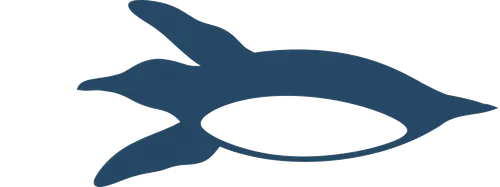
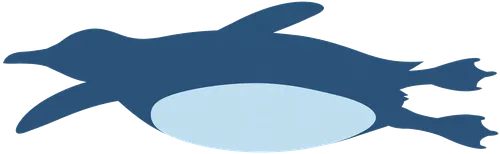
v2.7.4-beta fix (Mira review): weight-sort direction, shark-shadow specificity, whale-shark line, revised mola + penguin sprites

diff --git a/script.js b/script.js
@@ -680,7 +680,7 @@ const SIGHTINGS = {
     { text: "An African penguin torpedoes past in a burst of bubbles, impossibly fast for a bird.", creature: "penguin", regions: ["south-africa"] },
     { text: "A Galápagos penguin darts past, tiny and quick, gone before you can point.", creature: "penguin", regions: ["galapagos"] },
     { text: "A hammerhead's silhouette sweeps past in the distance, its wide head unmistakable even this far off.", creature: "shark:hammerhead", biomes: ["tropical","pelagic"] },
-    { text: "Something enormous glides beneath the boat — a whale shark's shadow, slow and spotted, there and gone.", creature: "shark:whale", biomes: ["tropical","pelagic"] }
+    { text: "Something enormous glides beneath the boat — a whale shark's shadow, slow and vast, there and gone.", creature: "shark:whale", biomes: ["tropical","pelagic"] }
   ],
   reef: [
     { text: "A sea turtle paddles over the coral, unbothered by your presence.", creature: "turtle", biomes: ["tropical","volcanic"] },
@@ -722,7 +722,10 @@ const SIGHTING_KEYWORDS = { turtle: "turtle", fish: "fish", dolphin: "dolphin", 
    often, dolphins and turtles a bit less, everything else rarer. The deck
    still deals each sighting at most once per trip; weighting only orders
    the shuffle, so common creatures land earlier in the trip. Shark
-   silhouettes ("shark:<id>") weigh 1, like all other rarities. */
+   silhouettes ("shark:<id>") weigh 1, like all other rarities.
+   v2.7.4-fix (Mira review): the deck is consumed with pop(), so the sort
+   MUST be ascending — descending put the highest-weight-biased keys first
+   in the array, which pop() deals LAST, so rares were dealt first. */
 const CREATURE_WEIGHT = { fish: 3, dolphin: 2, turtle: 2 };
 function sightingWeight(entry) {
   const key = (entry.creature || "").split(":")[0];
@@ -730,7 +733,7 @@ function sightingWeight(entry) {
 }
 function weightedSightingShuffle(arr) {
   return arr.map(s => ({ s, k: Math.pow(Math.random(), 1 / sightingWeight(s)) }))
-    .sort((a, b) => b.k - a.k).map(o => o.s);
+    .sort((a, b) => a.k - b.k).map(o => o.s);
 }
 function buildSightingDeck(depth, region) {
   const pool = SIGHTINGS[depth] || [];

diff --git a/test-suite.js b/test-suite.js
@@ -5845,6 +5845,14 @@ ok('WHATS_NEW has v1.7.23-beta', Array.isArray(WHATS_NEW['v1.7.23-beta']) && WHA
     ok("sighting weights: fish 3, dolphin + turtle 2, everything else 1",
       CREATURE_WEIGHT.fish === 3 && CREATURE_WEIGHT.dolphin === 2 && CREATURE_WEIGHT.turtle === 2 &&
       sightingWeight({ creature: "shark:hammerhead" }) === 1 && sightingWeight({ creature: "penguin" }) === 1);
+    const realRandom = Math.random;
+    try {
+      const seq = [0.99, 0.01, 0.5]; let ri = 0;
+      Math.random = function() { return seq[ri++ % seq.length]; };
+      const firstDealt = weightedSightingShuffle([{ creature: "fish" }, { creature: "turtle" }, { creature: "mola" }]).pop();
+      ok("weighted deck deals the fish-biased entry first (stubbed random, pop consumption)",
+        firstDealt && firstDealt.creature === "fish");
+    } finally { Math.random = realRandom; }
     const wsIn = [{ creature: "fish" }, { creature: "turtle" }, { creature: "mola" }];
     const wsOut = weightedSightingShuffle(wsIn);
     ok("weighted shuffle is a permutation (no entry lost or duplicated)",
@@ -5858,7 +5866,7 @@ ok('WHATS_NEW has v1.7.23-beta', Array.isArray(WHATS_NEW['v1.7.23-beta']) && WHA
       fileCode.indexOf('type.indexOf("shark:")') !== -1 &&
       fileCode.indexOf('class="shark-shadow"') !== -1 &&
       fileCode.indexOf('scaleX(-1)') !== -1 && fileCode.indexOf('swim-left') !== -1 &&
-      cssCode.indexOf('.ambient .shark-shadow') !== -1);
+      cssCode.indexOf('.dive-scene .ambient .shark-shadow img') !== -1);
   } catch (e) { ok("v2.7.4 ambient batch block (" + e.message + ")", false); }
 
 console.log(out.join('\\n'));

diff --git a/style.css b/style.css
@@ -1198,6 +1198,13 @@ select option:disabled { color: #7a8a9e; }
    darkened art sizes like the WebP sprites (the .shark-shadow SVG's fixed
    220x110 would otherwise fight the slot height). */
 .ambient .shark-shadow { height: 100%; }
+/* v2.7.4-fix (Mira review): the plain .shark-shadow filter lost to the
+   depth rules (.depth-surface/.depth-shallow .ambient img and
+   .depth-midwater/.depth-deep .ambient svg), leaving dimmed full-colour
+   art in the shallows instead of a true silhouette. This
+   higher-specificity rule restores the uniformly dark shadow on every
+   depth, for the WebP img and the fallback SVG alike. */
+.dive-scene .ambient .shark-shadow img, .dive-scene .ambient .shark-shadow svg { filter: brightness(0); }
 /* v0.26.1: ambient creatures swim both ways — .swim-left reverses the drift
    so creatures can travel right-to-left, facing their direction of travel. */
 .ambient.swim-left { animation-name: driftLeft; }
